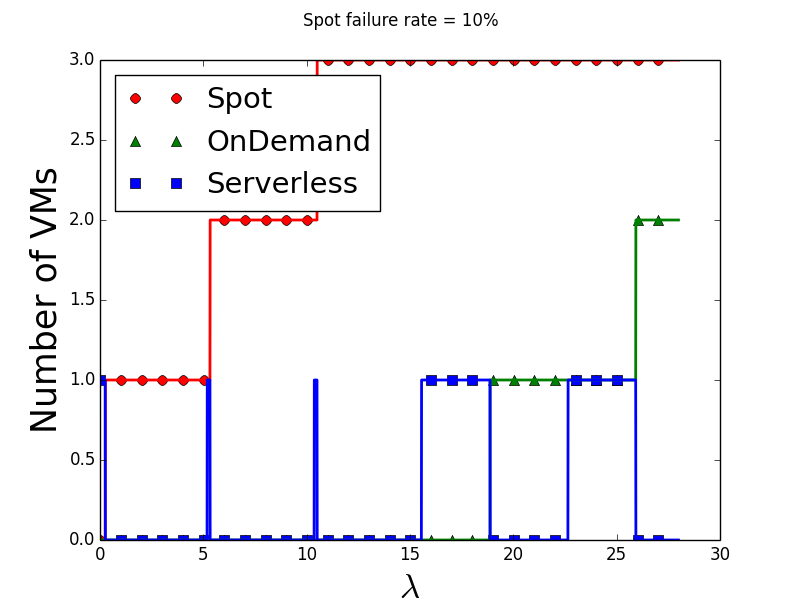
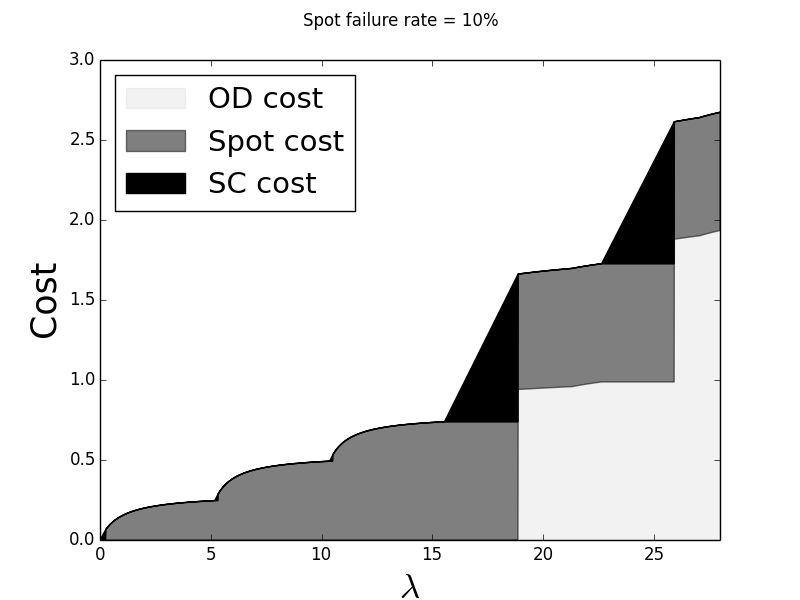
plot shaded graphs

diff --git a/scripts/generate_plots_mg1_spot.py b/scripts/generate_plots_mg1_spot.py
@@ -14,6 +14,8 @@ import sys
 import matplotlib.pyplot as plt
 import numpy
 import math
+from matplotlib.patches import Rectangle
+
 
 markers = ['s', 'h', '^', '*', 'o', 'p', '+', 'x', '<', 'D', '>', 'v', 'd', 0, 5, 2, 7, 1, 4, 3, 6, '1', '2', '3', '4', '8']
 
@@ -343,14 +345,19 @@ def find_min_cost(val_lambda, num_instances, alpha_instance, mu_instance, alpha_
 	min_num_spot = num_instances-1
 	min_num_spot_serverless = val_lambda - (min_num_spot*L_instance)
 	min_spot_serv_cost = (alpha_instance*((L_instance*(mu_instance + gamma))/((mu_instance*(L_instance + gamma))))*min_num_spot) + (alpha_sl*(min_num_spot_serverless/mu_sl))		
+	min_spot_cost = (alpha_instance*((L_instance*(mu_instance + gamma))/((mu_instance*(L_instance + gamma))))*min_num_spot)
+	min_serv_cost = (alpha_sl*(min_num_spot_serverless/mu_sl))
+
 	spot_serv_cost_k_1 = (alpha_instance*((L_instance*(mu_instance + gamma))/((mu_instance*(L_instance + gamma))))*min_num_spot) + (alpha_instance*((min_num_spot_serverless*(mu_instance + gamma))/((mu_instance*(min_num_spot_serverless + gamma)))))
 	if min_spot_serv_cost > spot_serv_cost_k_1:
 		min_num_spot += 1
 		min_num_spot_serverless = 0
 		min_spot_serv_cost = spot_serv_cost_k_1
+		min_spot_cost = spot_serv_cost_k_1
+		min_serv_cost = 0
 	# print "min_num_spot=%f\tmin_num_spot_serverless=%f\min_spot_serv_cost=%f" % \
 					 # (min_num_spot, min_num_spot_serverless, min_spot_serv_cost)
-	return min_num_spot, min_num_spot_serverless, min_spot_serv_cost
+	return min_num_spot, min_num_spot_serverless, min_spot_serv_cost, min_serv_cost, min_spot_cost
 
 def inst_cost(val_lambda, num_instances, alpha_instance, mu_instance, beta, gamma):
 	if num_instances == 0:
@@ -382,19 +389,19 @@ def calculate_vm_dist_cost(arrival_lambda, fail_rate, mu_spot, mu_v, mu_sl, N_SP
 
 	if num_spot_only_required <= N_SPOT:
 		# compare spot +serverless with OD + serverless
-		min_num_spot, min_num_spot_serverless, min_spot_serv_cost = find_min_cost(new_lambda_only_spots, num_spot_only_required, alpha_spot, mu_spot, alpha_sl, mu_sl, beta, gamma)
-		min_num_vm, min_num_vm_serverless, min_vm_serv_cost = find_min_cost(arrival_lambda, num_vm_only_required, alpha_v, mu_v, alpha_sl, mu_sl, beta, gamma)
+		min_num_spot, min_num_spot_serverless, min_spot_serv_cost, min_serv_cost, min_spot_cost = find_min_cost(new_lambda_only_spots, num_spot_only_required, alpha_spot, mu_spot, alpha_sl, mu_sl, beta, gamma)
+		min_num_vm, min_num_vm_serverless, min_vm_serv_cost, min_servvm_cost, min_vm_cost = find_min_cost(arrival_lambda, num_vm_only_required, alpha_v, mu_v, alpha_sl, mu_sl, beta, gamma)
 		serverless_only_cost = alpha_sl * arrival_lambda / mu_sl
 		if min_vm_serv_cost <= min_spot_serv_cost:					# OD + serverless is cheaper than spot + serverless
 			if serverless_only_cost <= min_vm_serv_cost:
-				return 0,0,arrival_lambda, serverless_only_cost
+				return 0,0,arrival_lambda, serverless_only_cost, serverless_only_cost, 0, 0
 			else:
-				return 0,min_num_vm, min_num_vm_serverless, min_vm_serv_cost
+				return 0,min_num_vm, min_num_vm_serverless, min_vm_serv_cost, min_servvm_cost, 0, min_vm_cost
 		else:
 			if serverless_only_cost <= min_spot_serv_cost:
-				return 0,0,arrival_lambda, serverless_only_cost
+				return 0,0,arrival_lambda, serverless_only_cost, serverless_only_cost, 0, 0
 			else:
-				return min_num_spot, 0, min_num_spot_serverless, min_spot_serv_cost
+				return min_num_spot, 0, min_num_spot_serverless, min_spot_serv_cost, min_serv_cost, min_spot_cost, 0
 
 	num_vm = 0
 	num_spot = 0
@@ -441,12 +448,15 @@ def calculate_vm_dist_cost(arrival_lambda, fail_rate, mu_spot, mu_v, mu_sl, N_SP
 			
 			if min_cost > serv_cost + spot_cost + vm_cost:
 				min_cost = serv_cost + spot_cost + vm_cost
+				min_serv_cost = serv_cost
+				min_spot_cost = spot_cost
+				min_vm_cost = vm_cost
 				num_vm = v
 				num_spot = s
 				num_serv = serv_load
 			# if vm_load <= v*L_v:
 			# 	break
-	return num_spot, num_vm, num_serv, min_cost 
+	return num_spot, num_vm, num_serv, min_cost, min_serv_cost, min_spot_cost, min_vm_cost
 
 def calculate_vm_dist_cost_old(arrival_lambda, fail_rate, mu_spot, mu_v, mu_sl, N_SPOT, beta, alpha_v, alpha_sl, alpha_spot, gamma):
 	L_v = beta * mu_v
@@ -663,6 +673,9 @@ def OO_vary_failure_rate_servers(fail_rate):
 	spots = []
 	vms = []
 	serv = []
+	spot_cost = []
+	serv_cost = []
+	vm_cost = []
 
 	# prev_transition_cost = n_spot * alpha_spot
 	count = 0
@@ -674,11 +687,14 @@ def OO_vary_failure_rate_servers(fail_rate):
 		count += 1
 		
 		for val_lambda in lambdas:
- 			num_spot, num_vm, num_serverless, cost = calculate_vm_dist_cost(val_lambda, fail_rate, mu_spot, mu_v, mu_sl, N_SPOT, beta, alpha_v, alpha_sl, alpha_spot, gamma)
+ 			num_spot, num_vm, num_serverless, cost, min_serv_cost, min_spot_cost, min_vm_cost = calculate_vm_dist_cost(val_lambda, fail_rate, mu_spot, mu_v, mu_sl, N_SPOT, beta, alpha_v, alpha_sl, alpha_spot, gamma)
  			if count == 1:
  				print "Spot = %f\tOD = %f\tServ = %fval_lambda=%f\n\n" % (num_spot, num_vm, num_serverless,val_lambda)
 			spots.append(num_spot)
 			vms.append(num_vm)
+			serv_cost.append(min_vm_cost + min_spot_cost + min_serv_cost)
+			spot_cost.append(min_vm_cost + min_spot_cost)
+			vm_cost.append(min_vm_cost)
 			if num_serverless > 0:
 				serv.append(1)
 			else:
@@ -687,26 +703,35 @@ def OO_vary_failure_rate_servers(fail_rate):
 		
 		results.append(results_price)
 	filename = '../graphs/mg1_spot/OO_failure_rate_' + str(fail_rate) + '_servers'  + '.png'
-	fig = plt.figure()
-	legends = ['Spot', 'OnDemand', 'Serverless']
-	# plt.plot(lambdas[::100], results[0][::100], 'c*', markersize=7)
-	plt.plot(lambdas[::100], spots[::100], 'ro', markersize=7)
-	plt.plot(lambdas[::100], vms[::100], 'g^', markersize=7)
-	plt.plot(lambdas[::100], serv[::100], 'bs', markersize=7)
-	# plt.plot(lambdas, results[0], 'c', linewidth='2')
-	plt.plot(lambdas, spots, 'r', linewidth='2')
-	plt.plot(lambdas, vms, 'g', linewidth='2')
-	plt.plot(lambdas, serv, 'b', linewidth='2')
-
-	plt.legend(legends, loc='upper left', fontsize=21)
-	plt.ylabel('Number of VMs', fontsize=25)
-	plt.autoscale(enable=False, axis='x')
-
+	legends = ['OD cost', 'Spot cost', 'SC cost']
+	ylabel = 'Cost'
 	title = "Spot failure rate = %d%%" % int(fail_rate*100)
-	fig.suptitle(title)
-	plt.xlabel(r'$\lambda$', fontsize=25)
-	plt.savefig(filename)
+	location = "upper left"
+	xlabel = r'$\lambda$'
+	plot_graph(filename, legends, lambdas, vm_cost, spot_cost, serv_cost, xlabel, ylabel, title, location)
 
+def plot_graph(filename, legends, xaxis, vm_cost, spot_cost, serv_cost, xlabel, ylabel, title, location):
+	fig = plt.figure()
+	# plt.plot(xaxis[::100], vm_cost[::100], 'g^', markersize=7)
+	# plt.plot(xaxis[::100], spot_cost[::100], 'ro', markersize=7)
+	# plt.plot(xaxis[::100], serv_cost[::100], 'bs', markersize=7)
+	# plt.plot(xaxis, vm_cost, 'yellowgreen', linewidth='2')
+	# plt.plot(xaxis, spot_cost, 'lightblue', linewidth='2')
+	# plt.plot(xaxis, serv_cost, 'black', linewidth='2')
+	yg = Rectangle((0, 0), 1, 1, fc="black", alpha=0.05)
+	lb = Rectangle((0, 0), 1, 1, fc="black", alpha=0.5)
+	b = Rectangle((0, 0), 1, 1, fc="black", alpha=1)
+	new_legends = [yg,lb,b]
+	plt.legend(new_legends, legends, loc=location, fontsize=21)
+	fig.suptitle(title)
+	# plt.autoscale(enable=False, axis='x')
+	plt.fill_between(xaxis, 0, vm_cost, color='black', alpha='0.05')
+	plt.fill_between(xaxis, vm_cost, spot_cost, color='black', alpha='0.5')
+	plt.fill_between(xaxis, spot_cost, serv_cost, color='black', alpha='1')
+	plt.xlim(0,xaxis[-1])
+	plt.xlabel(xlabel, fontsize=25)
+	plt.ylabel(ylabel, fontsize=25)
+	plt.savefig(filename)
 
 # OO, vary spot/VM price ratio
 def OO_price_ratio_spot_od():
@@ -749,6 +774,9 @@ def OO_price_ratio_spot_od():
 	spots = []
 	vms = []
 	serv = []
+	spot_cost = []
+	serv_cost = []
+	vm_cost = []
 
 	# prev_transition_cost = n_spot * alpha_spot
 	count = 0
@@ -760,11 +788,14 @@ def OO_price_ratio_spot_od():
 		quants = []
 		count += 1
 		
- 		num_spot, num_vm, num_serverless, cost = calculate_vm_dist_cost(val_lambda, fail_rate, mu_spot, mu_v, mu_sl, N_SPOT, beta, alpha_v, alpha_sl, alpha_spot, gamma)
+ 		num_spot, num_vm, num_serverless, cost, min_serv_cost, min_spot_cost, min_vm_cost = calculate_vm_dist_cost(val_lambda, fail_rate, mu_spot, mu_v, mu_sl, N_SPOT, beta, alpha_v, alpha_sl, alpha_spot, gamma)
 		# 	if count == 1:
 		# 		print "Spot = %f\tOD = %f\tServ = %fval_lambda=%f\n\n" % (num_spot, num_vm, num_serverless,val_lambda)
 		spots.append(num_spot)
 		vms.append(num_vm)
+		serv_cost.append(min_vm_cost + min_spot_cost + min_serv_cost)
+		spot_cost.append(min_vm_cost + min_spot_cost)
+		vm_cost.append(min_vm_cost)
 		if num_serverless > 0:
 			serv.append(1)
 		else:
@@ -773,28 +804,15 @@ def OO_price_ratio_spot_od():
 		
 		results.append(cost)
 	filename = '../graphs/mg1_spot/OO_price_ratio_spot_OD' + str(fail_rate) + '_servers'  + '.png'
-	fig = plt.figure()
-	legends = ['Spot', 'OnDemand', 'Serverless']
-	# plt.plot(omega_savings_percent[::5], results[::5], 'c*', markersize=7)
-	plt.plot(omega_savings_percent[::5], spots[::5], 'ro', markersize=7)
-	plt.plot(omega_savings_percent[::5], vms[::5], 'g^', markersize=7)
-	plt.plot(omega_savings_percent[::5], serv[::5], 'bs', markersize=7)
-	# plt.plot(omega_savings_percent, results, 'c', linewidth='2')
-	plt.plot(omega_savings_percent, spots, 'r', linewidth='2')
-	plt.plot(omega_savings_percent, vms, 'g', linewidth='2')
-	plt.plot(omega_savings_percent, serv, 'b', linewidth='2')
-
-	plt.legend(legends, loc='upper right', fontsize=21)
-	plt.ylabel('Number of VMs', fontsize=25)
-	plt.autoscale(enable=False, axis='x')
-
-	# fig.suptitle(title)
-	plt.xlabel('Price savings of Spot over OnDemand VMs', fontsize=25)
-	plt.savefig(filename)
+	legends = ['OD cost', 'Spot cost', 'SC cost']
+	ylabel = 'Cost'
+	location = "upper right"
+	xlabel = r'$\alpha_{spot}/\alpha_v$'
+	title = ""
+	plot_graph(filename, legends, omega_savings_percent, vm_cost, spot_cost, serv_cost, xlabel, ylabel, title, location)
 
 # OO, vary spot/VM price ratio
-def OO_failure_rate_impact():
-	val_lambda = 7.2
+def OO_failure_rate_impact(val_lambda):
 
 	failure_rates = [.01*x for x in range(1,99)]
 
@@ -835,6 +853,9 @@ def OO_failure_rate_impact():
 	spots = []
 	vms = []
 	serv = []
+	spot_cost = []
+	serv_cost = []
+	vm_cost = []
 
 	# prev_transition_cost = n_spot * alpha_spot
 	count = 0
@@ -846,10 +867,13 @@ def OO_failure_rate_impact():
 		quants = []
 		count += 1
 		
- 		num_spot, num_vm, num_serverless, cost = calculate_vm_dist_cost(val_lambda, fail_rate, mu_spot, mu_v, mu_sl, N_SPOT, beta, alpha_v, alpha_sl, alpha_spot, gamma)
+ 		num_spot, num_vm, num_serverless, cost, min_serv_cost, min_spot_cost, min_vm_cost = calculate_vm_dist_cost(val_lambda, fail_rate, mu_spot, mu_v, mu_sl, N_SPOT, beta, alpha_v, alpha_sl, alpha_spot, gamma)
 		print "Spot = %f\tOD = %f\tServ = %fval_lambda=%f\n\n" % (num_spot, num_vm, num_serverless,val_lambda)
 		spots.append(num_spot)
 		vms.append(num_vm)
+		serv_cost.append(min_vm_cost + min_spot_cost + min_serv_cost)
+		spot_cost.append(min_vm_cost + min_spot_cost)
+		vm_cost.append(min_vm_cost)
 		if num_serverless > 0:
 			serv.append(1)
 		else:
@@ -857,25 +881,31 @@ def OO_failure_rate_impact():
 		# results_price.append(cost)
 		
 		results.append(cost)
-	filename = '../graphs/mg1_spot/OO_failure_rate_impact_servers'  + '.png'
-	fig = plt.figure()
-	legends = ['Spot', 'OnDemand', 'Serverless']
+	filename = '../graphs/mg1_spot/OO_failure_rate_impact_lam_'  + str(val_lambda) + '.png'
+	legends = ['OD cost', 'Spot cost', 'SC cost']
+	ylabel = 'Cost'
+	location = "upper left"
+	xlabel = 'Spot failure rate %'
+	title = ""
+	plot_graph(filename, legends, failure_rates, vm_cost, spot_cost, serv_cost, xlabel, ylabel, title, location)
+
+
 	# plt.plot(failure_rates[::5], results[::5], 'c*', markersize=7)
-	plt.plot(failure_rates[::5], spots[::5], 'ro', markersize=7)
-	plt.plot(failure_rates[::5], vms[::5], 'g^', markersize=7)
-	plt.plot(failure_rates[::5], serv[::5], 'bs', markersize=7)
-	# plt.plot(failure_rates, results, 'c', linewidth='2')
-	plt.plot(failure_rates, spots, 'r', linewidth='2')
-	plt.plot(failure_rates, vms, 'g', linewidth='2')
-	plt.plot(failure_rates, serv, 'b', linewidth='2')
+	# plt.plot(failure_rates[::5], spots[::5], 'ro', markersize=7)
+	# plt.plot(failure_rates[::5], vms[::5], 'g^', markersize=7)
+	# plt.plot(failure_rates[::5], serv[::5], 'bs', markersize=7)
+	# # plt.plot(failure_rates, results, 'c', linewidth='2')
+	# plt.plot(failure_rates, spots, 'r', linewidth='2')
+	# plt.plot(failure_rates, vms, 'g', linewidth='2')
+	# plt.plot(failure_rates, serv, 'b', linewidth='2')
 
-	plt.legend(legends, loc='upper right', fontsize=21)
-	plt.ylabel('Number of VMs', fontsize=25)
-	plt.autoscale(enable=False, axis='x')
+	# plt.legend(legends, loc='upper right', fontsize=21)
+	# plt.ylabel('Number of VMs', fontsize=25)
+	# plt.autoscale(enable=False, axis='x')
 
-	# fig.suptitle(title)
-	plt.xlabel('Spot failure rate %', fontsize=25)
-	plt.savefig(filename)
+	# # fig.suptitle(title)
+	# plt.xlabel('Spot failure rate %', fontsize=25)
+	# plt.savefig(filename)
 
 def main():
 	if len(sys.argv) < 2:
@@ -898,7 +928,7 @@ def main():
 	elif exp_type == 'OO_price_ratio_spot_od':
 		OO_price_ratio_spot_od()
 	elif exp_type == 'OO_failure_rate_impact':
-		OO_failure_rate_impact()
+		OO_failure_rate_impact(float(sys.argv[2]))
 	else:
 		print "Wrong <exp_type>"
 		print "<exp_type> : AO_vary_price_ratio_no_fail/AO_vary_failure_rate"
